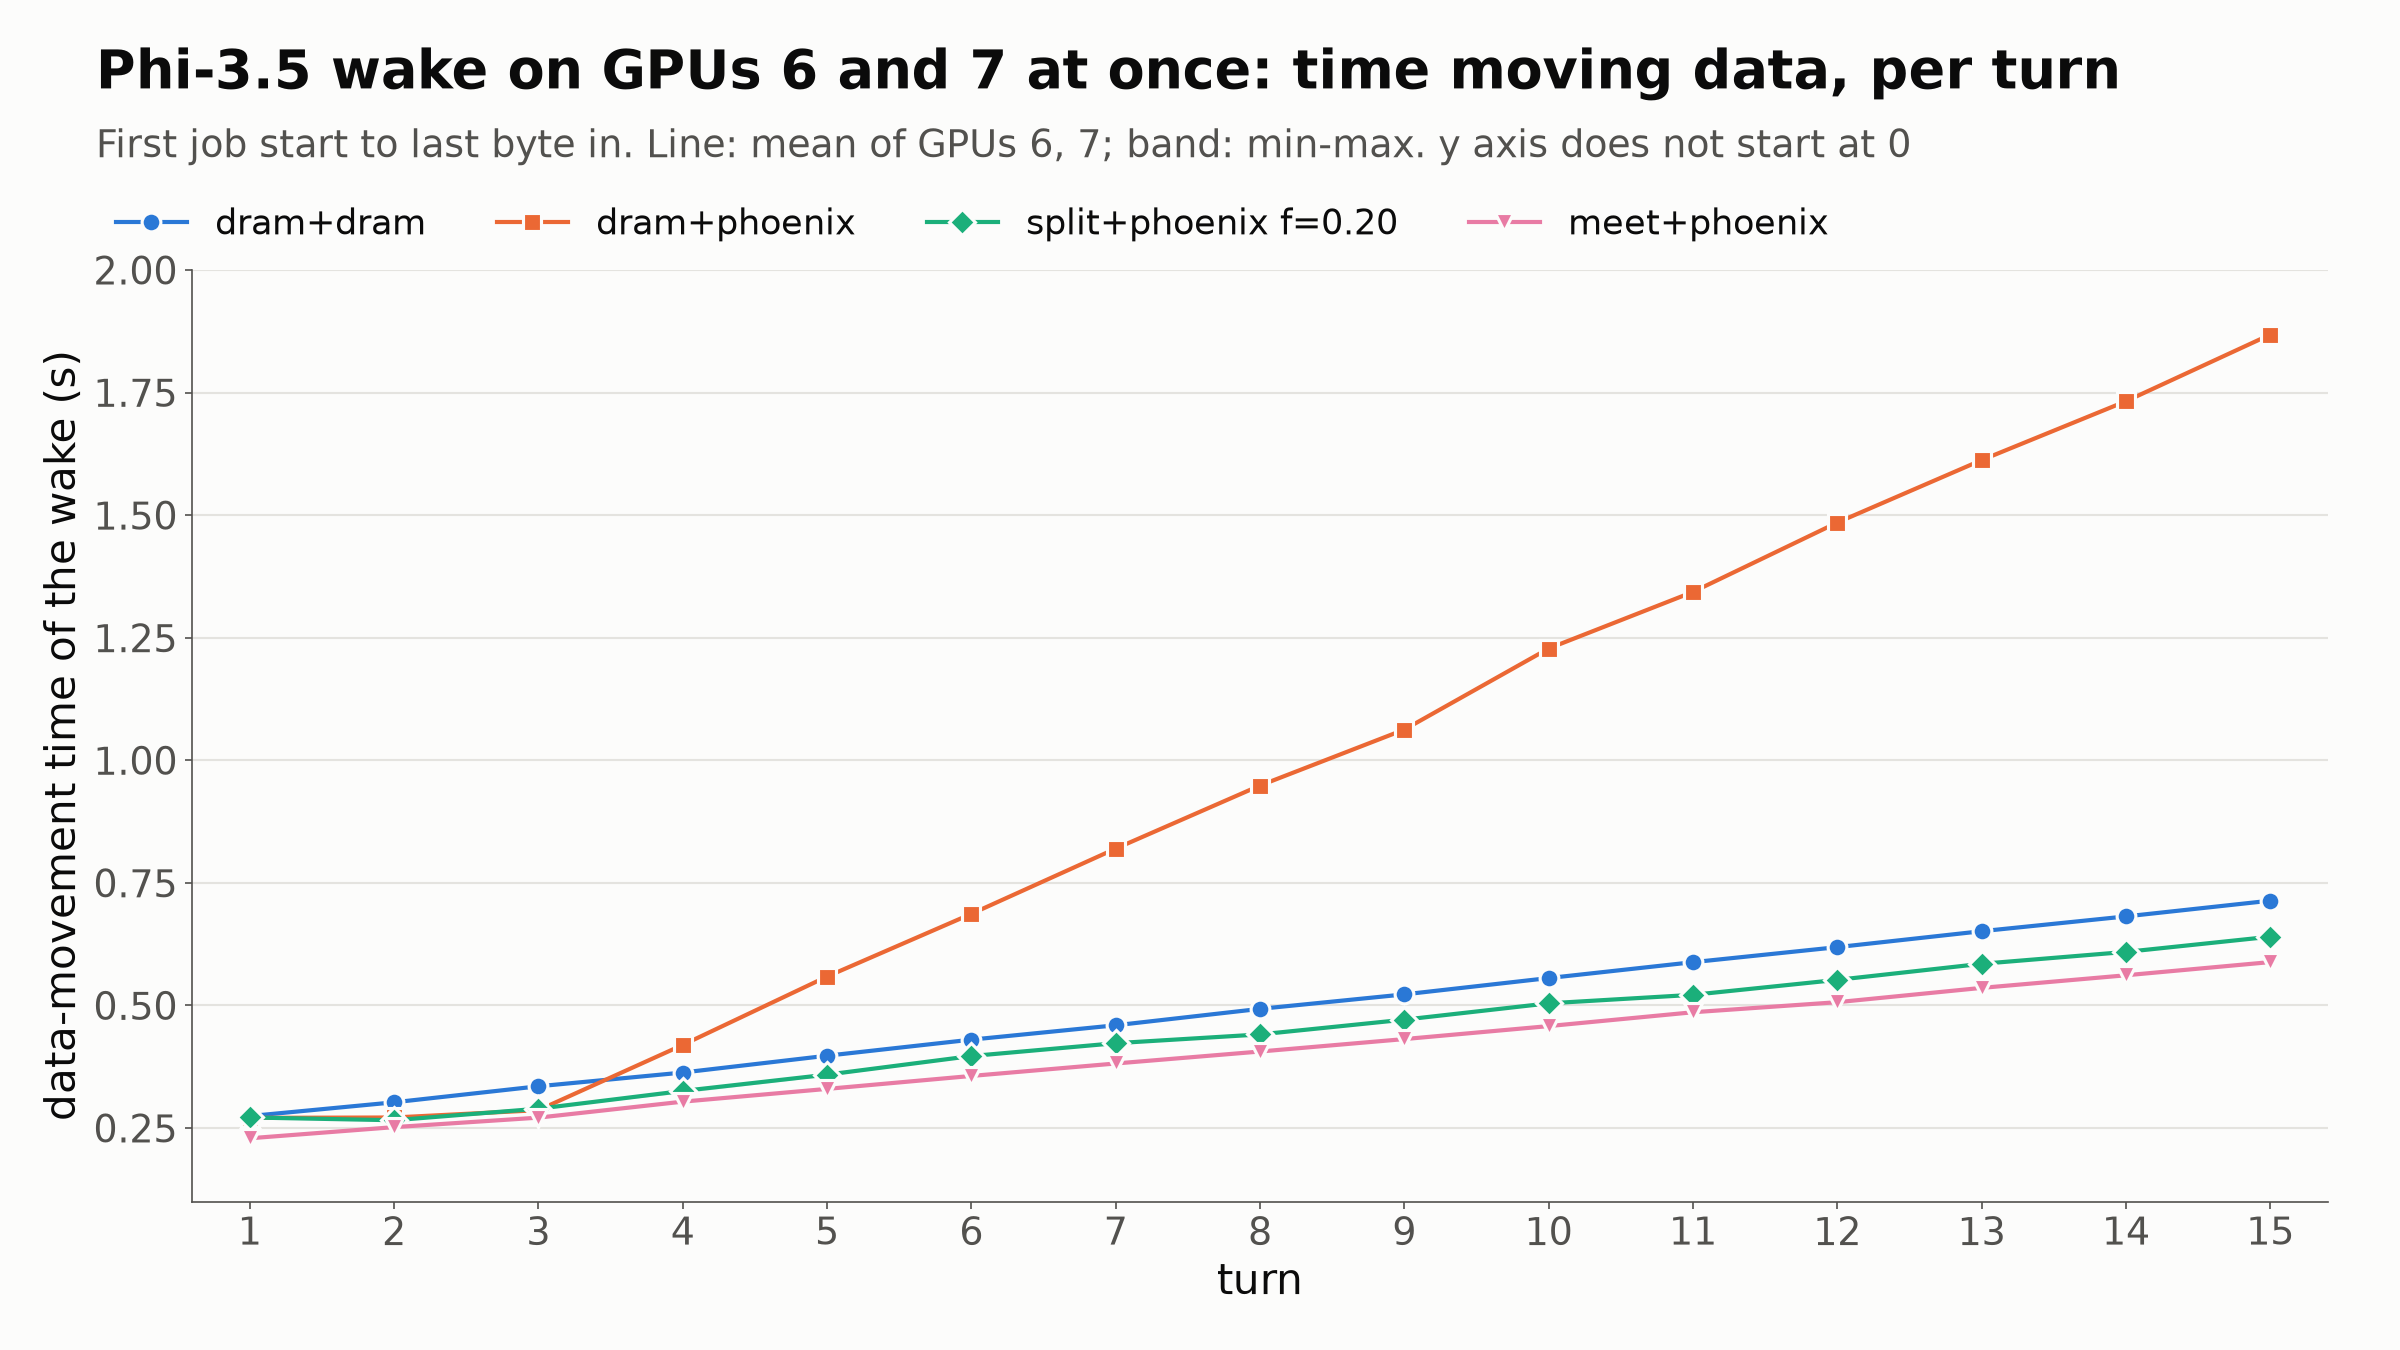
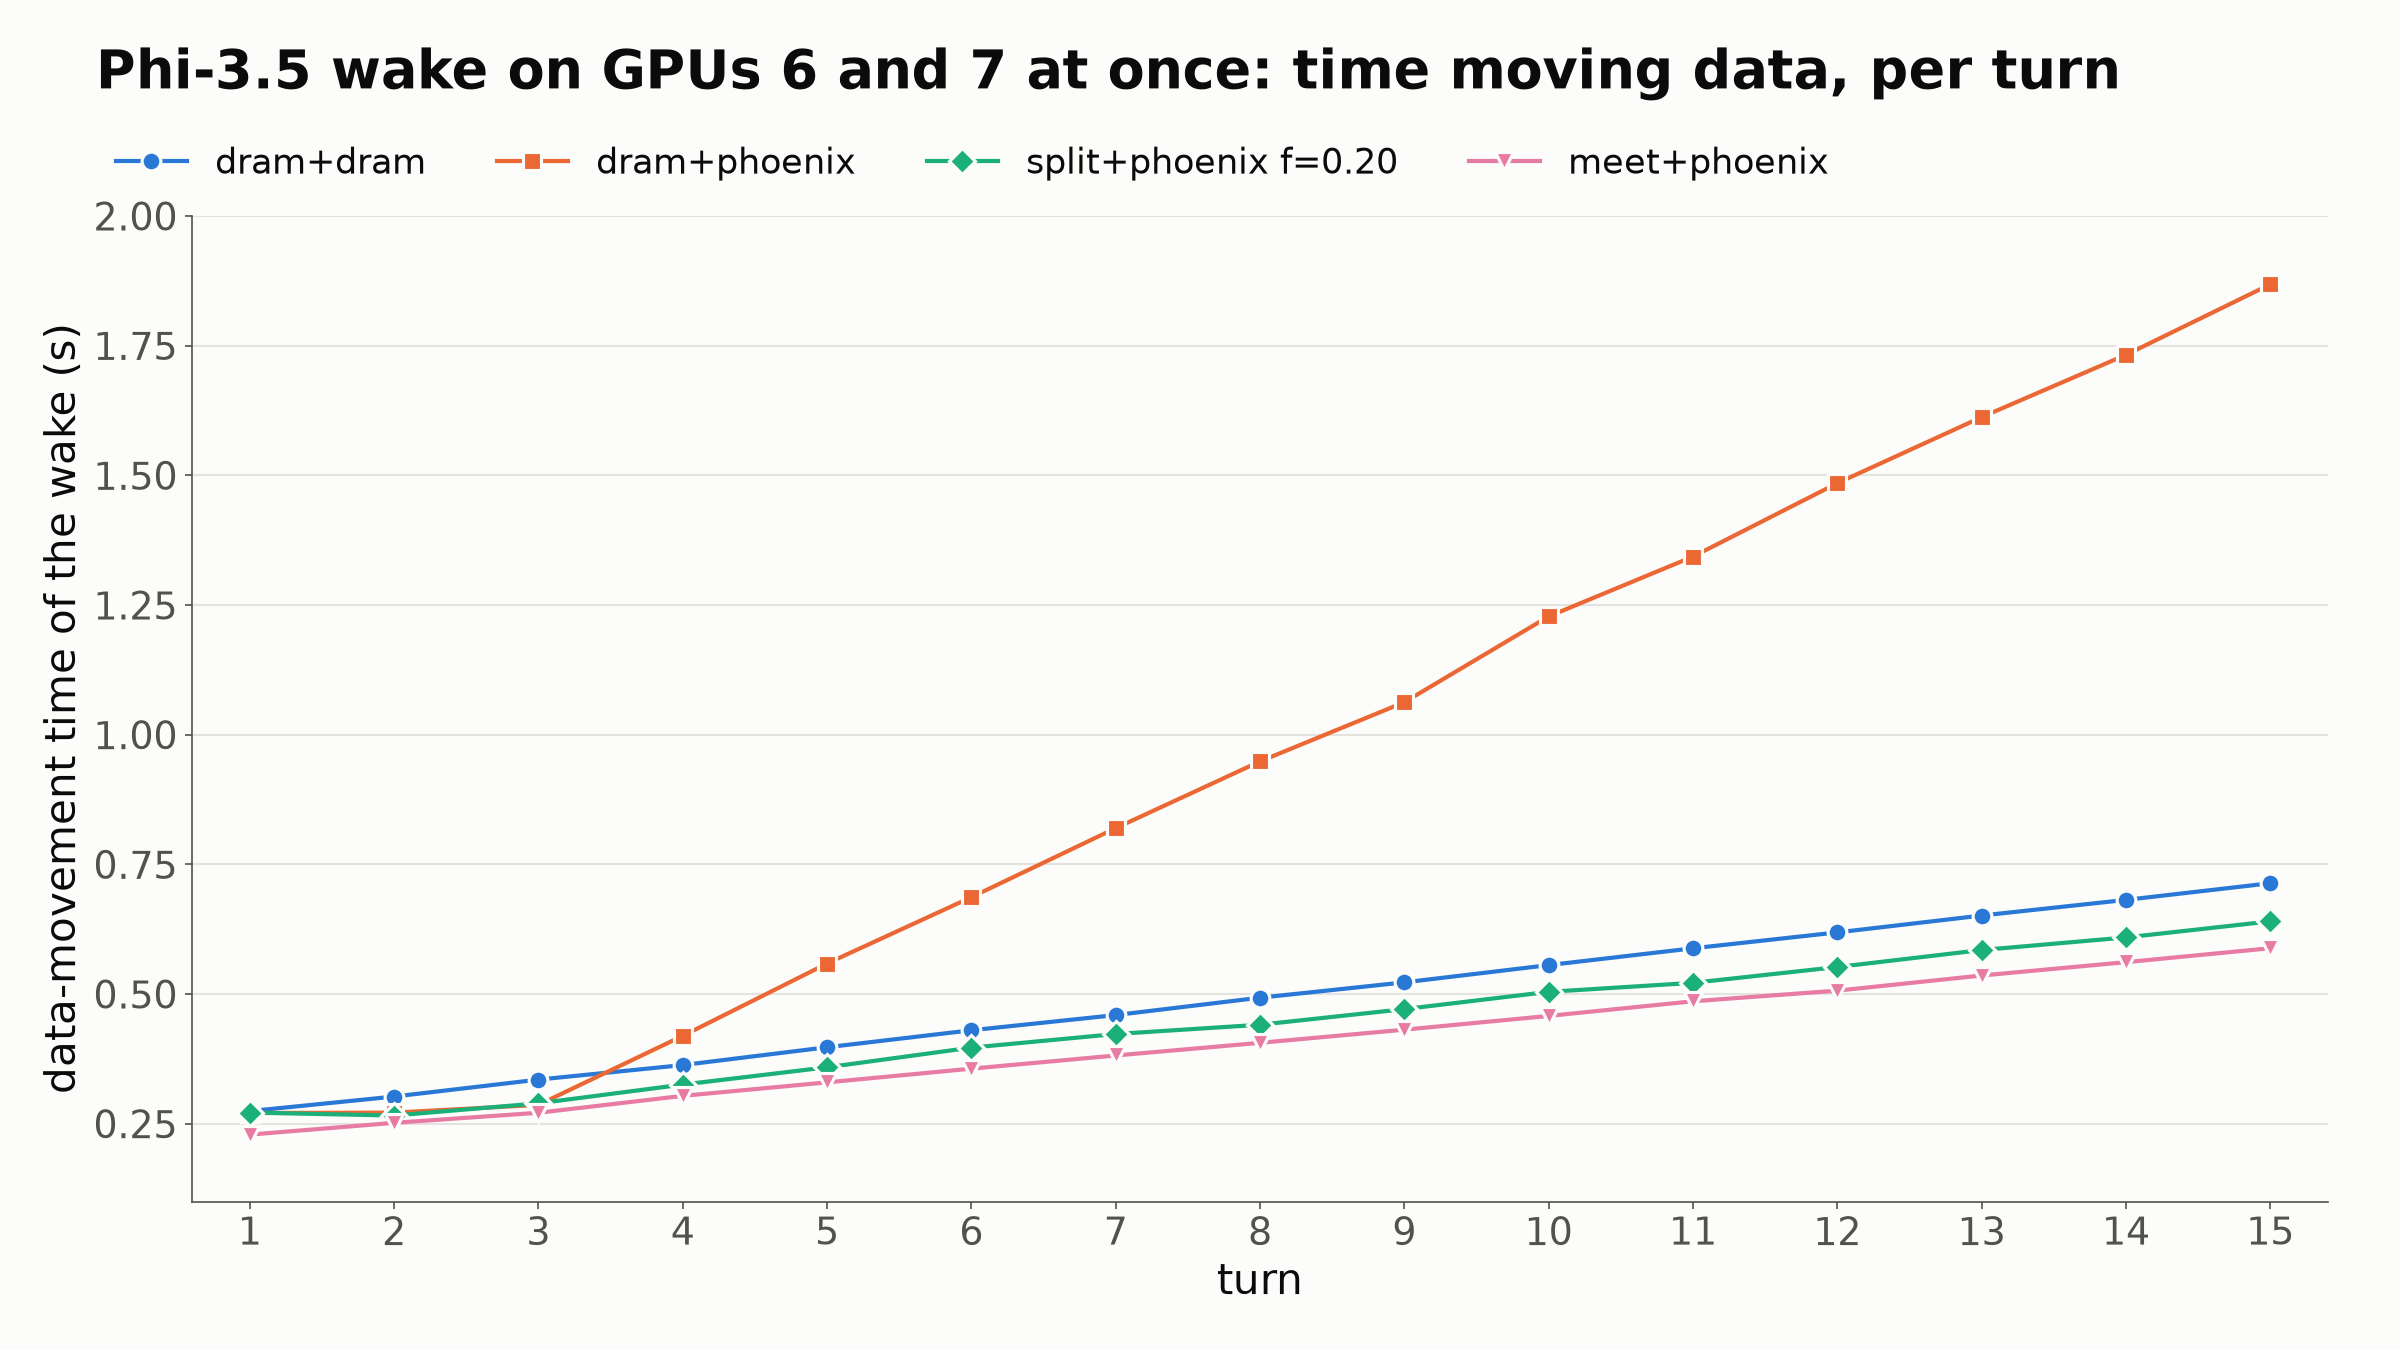
Per-turn wake figures: drop the subtitle
Redraw the Qwen3-32B and Phi-3.5 meet figures without it; legend moved up.

diff --git a/analysis/plot_dual_wake_by_turn.py b/analysis/plot_dual_wake_by_turn.py
@@ -67,7 +67,7 @@ def main():
     args = ap.parse_args()
     runs = [per_turn(d if os.path.isdir(d) else os.path.join(ROOT, "results", d), args.agent) for d in args.runs]
     fig, ax = plt.subplots()
-    fig.subplots_adjust(left=0.08, right=0.97, top=0.80, bottom=0.11)
+    fig.subplots_adjust(left=0.08, right=0.97, top=0.84, bottom=0.11)
     for path, turns, v in runs:
         label, color, marker = STYLE.get(path, (path, INK2, "o"))
         mean = v.mean(axis=1)
@@ -86,9 +86,7 @@ def main():
     name = MODELS[args.agent][0]
     fig.text(0.04, 0.965, f"{name} wake on GPUs 6 and 7 at once: time moving data, per turn", fontsize=26,
              weight="bold", va="top")
-    fig.text(0.04, 0.905, "First job start to last byte in. Line: mean of GPUs 6, 7; band: min-max. "
-             "y axis does not start at 0", fontsize=18, color=INK2, va="top")
-    fig.legend(loc="upper left", bbox_to_anchor=(0.035, 0.87), ncol=4, frameon=False)
+    fig.legend(loc="upper left", bbox_to_anchor=(0.035, 0.915), ncol=4, frameon=False)
     os.makedirs(OUT, exist_ok=True)
     out = os.path.join(OUT, f"wake_data_by_turn_{MODELS[args.agent][1]}{args.suffix}.png")
     fig.savefig(out)
